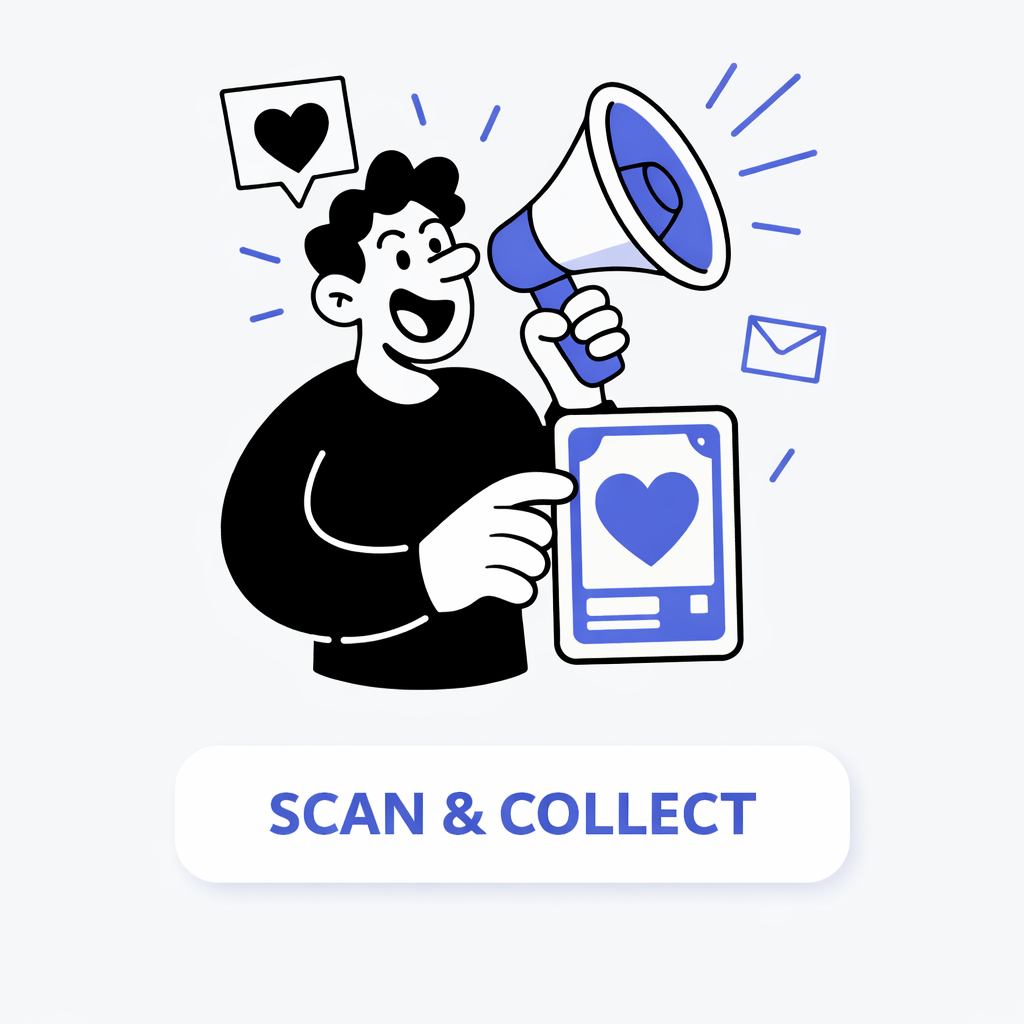
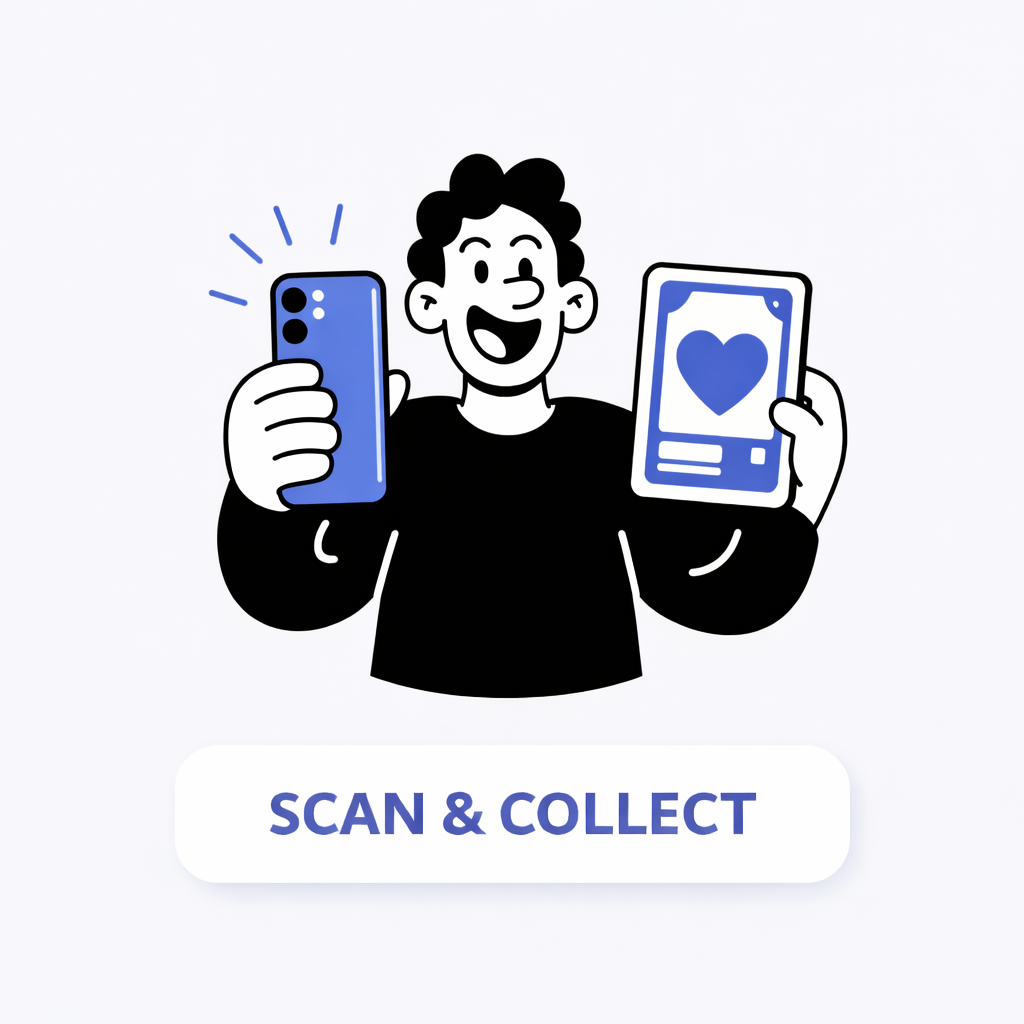
finish login page and start signup page

diff --git a/src/app/signup.tsx b/src/app/signup.tsx
@@ -4,19 +4,19 @@ import { Image, StyleSheet, Text, View, ScrollView, KeyboardAvoidingView, Platfo
 import { Button } from "@/components/Button"
 import { Input } from "@/components/Input"
 
-export default function Index() {
+export default function SignUp() {
   return (
     <KeyboardAvoidingView style={{ flex: 1 }} behavior={Platform.select({ ios: 'padding', android: "height" })}>
     <ScrollView contentContainerStyle={{ flexGrow: 1 }} keyboardShouldPersistTaps="handled">
     <View style={styles.container}>
       <Image 
-        source={require("@/assets/img1.png")}
+        source={require("@/assets/img2.png")}
         style={styles.illustration}
       />
       
-      <Text style={styles.title}>Entrar</Text>
+      <Text style={styles.title}>Cadastrar</Text>
       <Text style={styles.subtitle}>
-        Acessar agora com e-mail e senha.
+        Crie sua conta para começar a scanear suas cartas.
       </Text>
 
     <View style={styles.form}>

diff --git a/src/components/Button.tsx b/src/components/Button.tsx
@@ -1,0 +1,34 @@
+import {
+  StyleSheet,
+  Text,
+  TouchableOpacity,
+  TouchableOpacityProps,
+} from "react-native"
+
+type ButtonProps = TouchableOpacityProps & {
+  label: string
+}
+
+export function Button({ label, ...rest }: ButtonProps) {
+  return (
+    <TouchableOpacity style={styles.container} activeOpacity={0.5} {...rest}>
+      <Text style={styles.label}>{label}</Text>
+    </TouchableOpacity>
+  )
+}
+
+const styles = StyleSheet.create({
+  container: {
+    width: "100%",
+    height: 48,
+    backgroundColor: "#3366FF",
+    alignItems: "center",
+    justifyContent: "center",
+    borderRadius: 8,
+  },
+  label: {
+    color: "#FFFFFF",
+    fontSize: 16,
+    fontWeight: "600",
+  },
+})

diff --git a/src/components/Input.tsx b/src/components/Input.tsx
@@ -1,0 +1,17 @@
+import { StyleSheet, TextInput, TextInputProps } from "react-native"
+
+export function Input({...rest}: TextInputProps) {
+  return <TextInput style={styles.input} {...rest} />
+}
+
+const styles = StyleSheet.create({
+  input: {
+    width: '100%',
+    height: 38,
+    borderWidth: 1,
+    borderColor: '#DCDCDC',
+    borderRadius: 8,
+    fontSize: 16,
+    paddingLeft: 12,
+  },
+})
